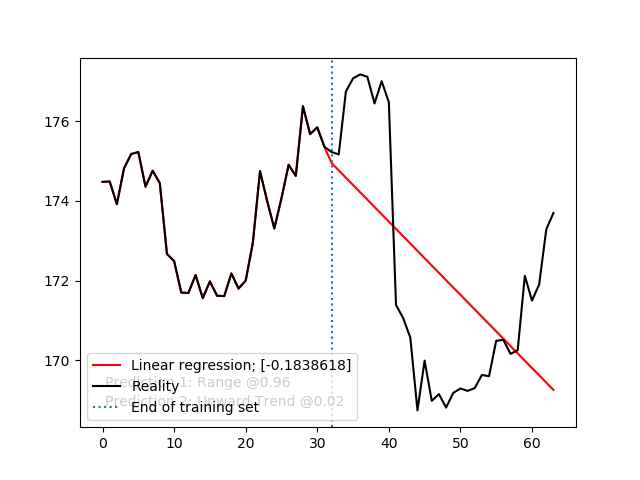
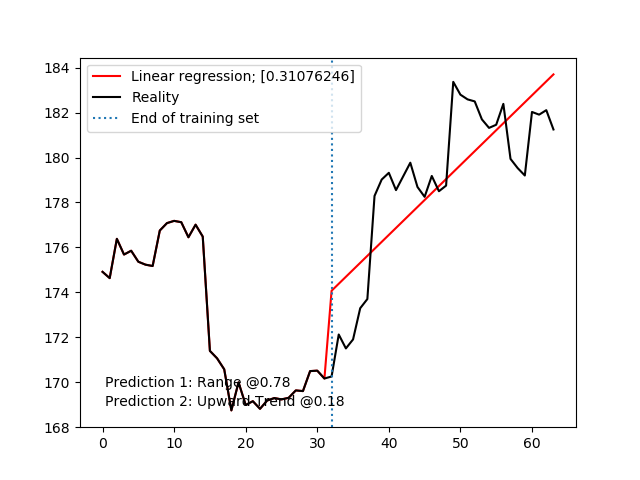
Switched from PCA to AE

diff --git a/utils/helpers.py b/utils/helpers.py
@@ -13,8 +13,11 @@ import xgboost as xgb
 from sklearn.decomposition import PCA
 from sklearn.preprocessing import MinMaxScaler, StandardScaler
 from sklearn.linear_model import LinearRegression
+from keras.models import Model
+from keras.models import load_model
 
 import utils.cryptocurrency.cryptocompare as cc
+import utils.neuralnet.model as md
 import utils.technicalanalysis.indicators as ind
 
 
@@ -72,12 +75,12 @@ def get_data(main="ETH", secondary="BTC"):
     return data
 
 
-def features_selection(data):
+def features_selection(data, threshold=.01, plot=True):
 
     def get_feature_importance_data(data_income):
         data = data_income.copy()
         y = data['close']
-        X = data.iloc[:, 12:]
+        X = data.iloc[:, 1:]
 
         train_samples = int(X.shape[0] * 0.65)
 
@@ -102,15 +105,21 @@ def features_selection(data):
                             eval_set = [(X_train_FI, y_train_FI), (X_test_FI, y_test_FI)], \
                             verbose=False)
 
-    eval_result = regressor.evals_result()
+    features = [i for i in range(len(xgbModel.feature_importances_))]
+    labels = X_test_FI.columns
+    values = np.array(xgbModel.feature_importances_.tolist())
 
-    fig = plt.figure(figsize=(8, 8))
-    plt.xticks(rotation='vertical')
-    plt.bar([i for i in range(len(xgbModel.feature_importances_))],
-            xgbModel.feature_importances_.tolist(),
-            tick_label=X_test_FI.columns)
-    plt.title('Figure 6: Feature importance of the technical indicators.')
-    plt.show()
+    selection = labels[values > threshold]
+
+    if plot:
+        fig = plt.figure(figsize=(8, 8))
+        plt.xticks(rotation='vertical')
+        plt.bar(features, values, tick_label=labels)
+        plt.title('Figure 6: Feature importance of the technical indicators.')
+        plt.save("features.png")
+        plt.show()
+
+    return [data.columns.get_loc(col) for col in selection]
 
 
 def impute_ts(X):
@@ -183,17 +192,27 @@ def preprocessing_pipeline(X,
 
     if is_testing_set:
         #! to update
-        stdsc = joblib.load("scalers/StandardScaler.pkl")
-        pca = joblib.load("scalers/pca.pkl")
-        mmsc = joblib.load("scalers/MinMaxScaler.pkl")
-        mmsc_pred = joblib.load("scalers/MinMaxScaler_predict.pkl")
 
-        preprocessed = stdsc.transform(preprocessed)
-        preprocessed = pca.transform(preprocessed)
-        preprocessed = mmsc.transform(preprocessed)
+        #stdsc = joblib.load("scalers/StandardScaler.pkl")
+        #pca = joblib.load("scalers/pca.pkl")
+        mmsc_in = joblib.load("scalers/MinMaxScaler_encoder.pkl")
+        mmsc_out = joblib.load("scalers/MinMaxScaler.pkl")
+        mmsc_pred = joblib.load("scalers/MinMaxScaler_predict.pkl")
+        m = load_model("models/autoencoder.h5")
+        encoder = Model(m.input, m.get_layer('bottleneck').output)
+
+        preprocessed = np.array(preprocessed)
+
+        preprocessed = mmsc_in.transform(preprocessed)
+        encoded = encoder.predict(preprocessed)
+        encoded = mmsc_out.transform(encoded)
+
+        #preprocessed = stdsc.transform(preprocessed)
+        #preprocessed = pca.transform(preprocessed)
+        #preprocessed = mmsc.transform(preprocessed)
 
         close = mmsc_pred.transform(close.reshape(-1, 1))
-        preprocessed = np.concatenate([close, preprocessed], axis=1)
+        preprocessed = np.concatenate([close, encoded], axis=1)
 
         X_test = np.array([preprocessed])
 
@@ -201,17 +220,29 @@ def preprocessing_pipeline(X,
 
     else:
         preprocessed = scale(preprocessed,
-                             scaler=StandardScaler(),
+                             scaler=MinMaxScaler(),
                              save=True,
-                             filename="StandardScaler")
+                             filename="MinMaxScaler_encoder")
 
-        pca = PCA(.99)
-        preprocessed = pca.fit_transform(preprocessed)
-        joblib.dump(pca, "scalers/pca.pkl")
+        #pca = PCA(.99)
+        #preprocessed = pca.fit_transform(preprocessed)
+        #joblib.dump(pca, "scalers/pca.pkl")
+        preprocessed = np.array(preprocessed)
+        m = md.build_autoencoder(preprocessed.shape[1], optimizer="adam")
+
+        m.fit(preprocessed, preprocessed, batch_size=128, epochs=32, verbose=1)
+        m.save("models/autoencoder.h5")
+
+        encoder = Model(m.input, m.get_layer('bottleneck').output)
+        encoder.save("models/encoder.h5")
+
+        encoded = encoder.predict(preprocessed)
+        encoded = scale(encoded)
 
         close = scale(close.reshape(-1, 1), filename="MinMaxScaler_predict")
-        preprocessed = scale(preprocessed)
-        preprocessed = np.concatenate((close, preprocessed), axis=1)
+
+        #preprocessed = scale(preprocessed)
+        preprocessed = np.concatenate((close, encoded), axis=1)
 
         X_train = [
             preprocessed[i - n_past:i, :]

diff --git a/utils/neuralnet/model.py b/utils/neuralnet/model.py
@@ -7,6 +7,8 @@ is subject to a lot of changes"""
 import os
 
 import numpy as np
+import tensorflow as tf
+
 from keras.callbacks import (EarlyStopping, ModelCheckpoint, ReduceLROnPlateau,
                              TensorBoard)
 from keras.layers import Activation, CuDNNGRU, CuDNNLSTM, Dense, Dropout, PReLU
@@ -17,6 +19,20 @@ from keras.wrappers.scikit_learn import KerasClassifier
 from sklearn.metrics import confusion_matrix
 from sklearn.model_selection import (GridSearchCV, StratifiedKFold,
                                      cross_val_score)
+
+
+def gelu(x):
+    """Gaussian Error Linear Unit.
+    This is a smoother version of the RELU.
+    Original paper: https://arxiv.org/abs/1606.08415
+    Args:
+        x: float Tensor to perform activation.
+    Returns:
+        `x` with the GELU activation applied.
+    """
+    cdf = 0.5 * (1.0 + tf.tanh(
+        (np.sqrt(2 / np.pi) * (x + 0.044715 * tf.pow(x, 3)))))
+    return x * cdf
 
 
 def build_classifier(n_past, n_features, optimizer="rmsprop"):
@@ -58,6 +74,32 @@ def build_classifier(n_past, n_features, optimizer="rmsprop"):
     plot_model(classifier, to_file="model.png")
 
     return classifier
+
+
+from keras.utils.generic_utils import get_custom_objects
+
+
+def build_autoencoder(n_features, code=16, optimizer="rmsprop"):
+
+    get_custom_objects().update({'gelu': Activation(gelu)})
+
+    autoencoder = Sequential()
+
+    autoencoder.add(Dense(64, activation=gelu, input_shape=(n_features,)))
+
+    autoencoder.add(Dense(32, activation=gelu))
+
+    autoencoder.add(Dense(code, activation='linear', name="bottleneck"))
+
+    autoencoder.add(Dense(32, activation=gelu))
+
+    autoencoder.add(Dense(64, activation=gelu))
+
+    autoencoder.add(Dense(n_features, activation='sigmoid'))
+
+    autoencoder.compile(loss='mean_squared_error', optimizer=optimizer)
+
+    return autoencoder
 
 
 def train_model(X_train,
@@ -151,6 +193,6 @@ def cv(X, y, n_past, batch_size=64, epochs=50, n_splits=5):
 
         overall = [acc if overall[0] == 0 else (overall[0] + acc) / 2]
 
-        print("Overall accuracy: {}%".format(overall))
+        print("Overall accuracy: {}%".format(overall * 100))
 
-    return accuracies
+    return np.array(accuracies)

diff --git a/cpai.py b/cpai.py
@@ -64,14 +64,14 @@ def main():
     training model, and computing predictions."""
 
     print("Getting X_train and y_train...")
-    time, data, X_train, y_train, y_test = get_datasets(validation_set=True)
+    time, data, X_train, y_train, y_test = get_datasets(validation_set=1)
 
     #classifier = load_model("models/classifier.h5")
     accuracies = md.cv(X_train,
                        y_train,
                        n_past=N_PAST,
                        batch_size=64,
-                       epochs=64,
+                       epochs=60,
                        n_splits=5)
 
     np.save("accuracies", accuracies)
@@ -82,8 +82,8 @@ def main():
                                 N_PAST,
                                 optimizer="rmsprop",
                                 shuffle=True,
-                                batch_size=64,
-                                epochs=65)
+                                batch_size=128,
+                                epochs=64)
     classifier.save("models/classifier.h5")
 
     print("Getting last {} hours to predict next {} hours...".format(
